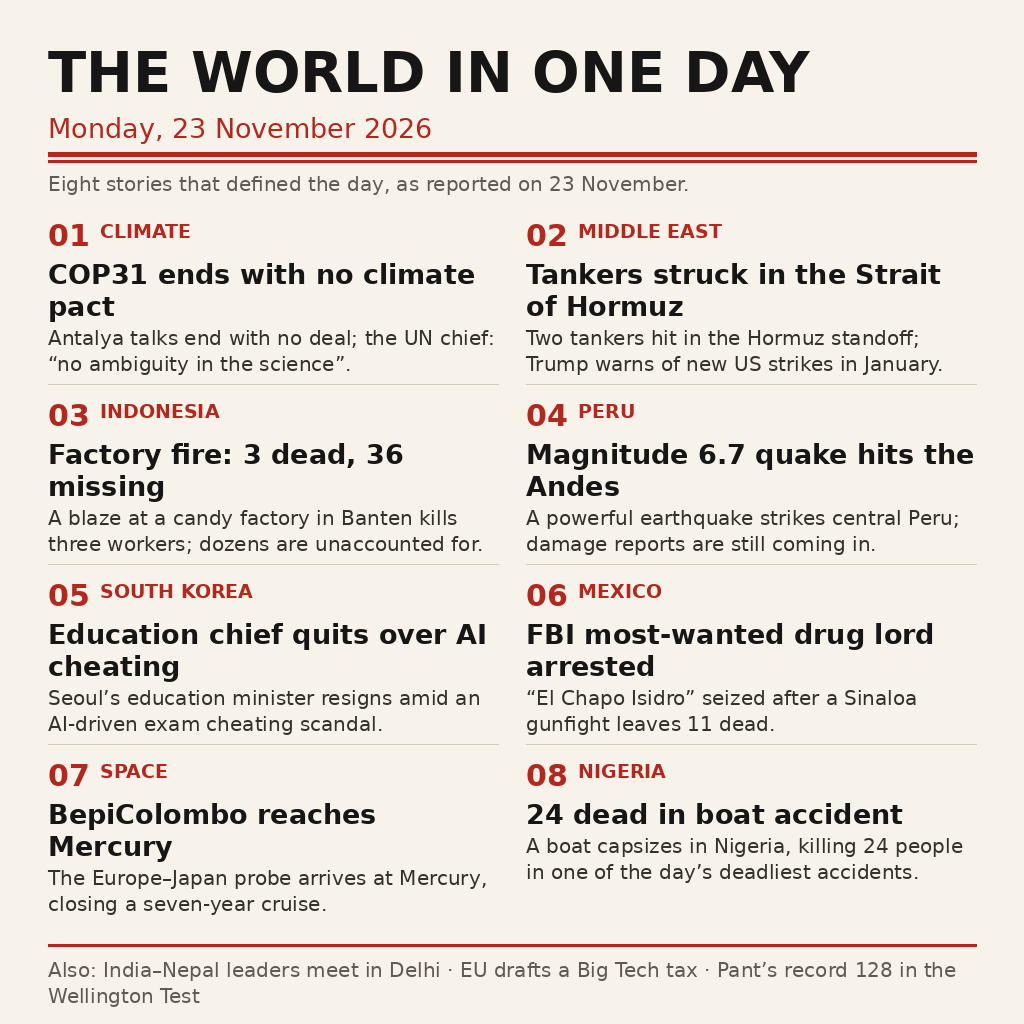
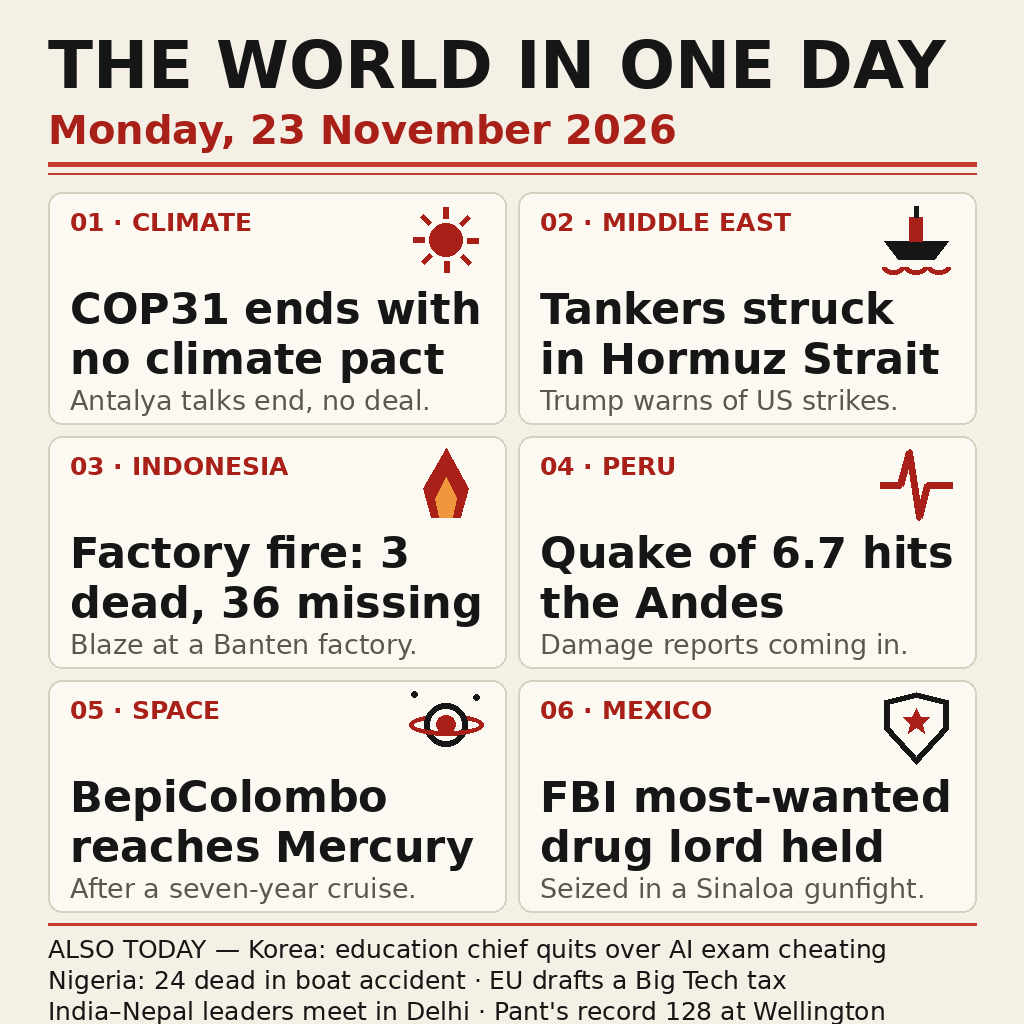
v2: redrawn poster — six story cards with pictograms, larger legible type, footer briefs

Changed region(s): [[0.0312, 0.0312, 0.9688, 1.0]]

diff --git a/draw_poster_v2.py b/draw_poster_v2.py
@@ -1,0 +1,207 @@
+"""Draw version 2 of the 23 November 2026 world-news poster.
+
+Redesign notes (against the judge's published criteria):
+- The day is named even larger, in the masthead, so criterion 1
+  (one day's news, and it names that day) cannot be missed.
+- Six lead stories instead of eight, each with a simple drawn
+  pictogram, a two-line headline at 44px and a one-line deck at
+  27px: at the judge's ~300px reading size the headlines stay
+  legible and each story reads from picture + label (criteria 3, 5).
+- The remaining stories run as one-line briefs in the footer, so
+  breadth (criterion 2) is kept without shrinking the leads.
+- Same stories, same wording as v1: the facts are unchanged,
+  only the presentation is stronger (criterion 4).
+"""
+
+from PIL import Image, ImageDraw, ImageFont
+
+W = H = 1024
+BG = (245, 240, 230)
+INK = (22, 22, 22)
+RED = (168, 32, 24)
+GREY = (92, 86, 78)
+CARD = (252, 249, 243)
+LINE = (196, 60, 46)
+
+SANS = "/usr/share/fonts/truetype/dejavu/DejaVuSans.ttf"
+SANS_B = "/usr/share/fonts/truetype/dejavu/DejaVuSans-Bold.ttf"
+
+
+def font(path, size):
+    return ImageFont.truetype(path, size)
+
+
+F_TITLE = font(SANS_B, 66)
+F_DATE = font(SANS_B, 40)
+F_KICKER = font(SANS_B, 25)
+F_HEAD = font(SANS_B, 43)
+F_DECK = font(SANS, 27)
+F_FOOT = font(SANS, 25)
+F_FOOT_B = font(SANS_B, 25)
+
+
+def wrap(draw, text, fnt, width):
+    words, lines, cur = text.split(), [], ""
+    for w in words:
+        trial = (cur + " " + w).strip()
+        if draw.textlength(trial, font=fnt) <= width:
+            cur = trial
+        else:
+            lines.append(cur)
+            cur = w
+    if cur:
+        lines.append(cur)
+    return lines
+
+
+# --- pictograms, drawn in an (x, y, s) box, s = box side ---------
+
+def icon_sun(d, x, y, s):
+    cx, cy, r = x + s / 2, y + s / 2, s * 0.21
+    d.ellipse([cx - r, cy - r, cx + r, cy + r], fill=RED)
+    import math
+    for k in range(8):
+        a = k * math.pi / 4
+        x1, y1 = cx + (r + 5) * math.cos(a), cy + (r + 5) * math.sin(a)
+        x2, y2 = cx + (r + 16) * math.cos(a), cy + (r + 16) * math.sin(a)
+        d.line([x1, y1, x2, y2], fill=RED, width=6)
+
+
+def icon_ship(d, x, y, s):
+    hull = [(x + 8, y + s * 0.52), (x + s - 8, y + s * 0.52),
+            (x + s - 22, y + s * 0.74), (x + 22, y + s * 0.74)]
+    d.polygon(hull, fill=INK)
+    d.rectangle([x + s * 0.42, y + s * 0.22, x + s * 0.58, y + s * 0.52],
+                fill=RED)
+    d.line([x + s * 0.5, y + s * 0.08, x + s * 0.5, y + s * 0.22],
+           fill=INK, width=5)
+    for i in range(3):
+        yy = y + s * (0.84 + 0.0)
+        xx = x + 6 + i * (s - 12) / 3
+        d.arc([xx, yy - 7, xx + (s - 12) / 3, yy + 7], 0, 180, fill=RED,
+              width=5)
+
+
+def icon_flame(d, x, y, s):
+    cx = x + s / 2
+    d.polygon([(cx, y + 4), (x + s * 0.78, y + s * 0.55),
+               (x + s * 0.68, y + s * 0.92), (x + s * 0.32, y + s * 0.92),
+               (x + s * 0.22, y + s * 0.55)], fill=RED)
+    d.polygon([(cx, y + s * 0.42), (x + s * 0.63, y + s * 0.68),
+               (x + s * 0.58, y + s * 0.92), (x + s * 0.42, y + s * 0.92),
+               (x + s * 0.37, y + s * 0.68)], fill=(240, 150, 60))
+
+
+def icon_quake(d, x, y, s):
+    # a seismograph trace: flat, one sharp spike, flat again
+    mid = y + s * 0.52
+    pts = [(x + 4, mid), (x + s * 0.3, mid), (x + s * 0.42, y + s * 0.1),
+           (x + s * 0.54, y + s * 0.92), (x + s * 0.64, mid),
+           (x + s - 4, mid)]
+    d.line(pts, fill=RED, width=7, joint="curve")
+
+
+def icon_planet(d, x, y, s):
+    cx, cy, r = x + s / 2, y + s * 0.46, s * 0.27
+    # ring behind the planet
+    d.ellipse([x + 3, cy - s * 0.13, x + s - 3, cy + s * 0.13],
+              outline=RED, width=5)
+    d.ellipse([cx - r, cy - r, cx + r, cy + r], fill=CARD)
+    d.ellipse([cx - r, cy - r, cx + r, cy + r], outline=INK, width=6)
+    d.ellipse([cx - r * 0.42, cy - r * 0.42, cx + r * 0.42, cy + r * 0.42],
+              fill=RED)
+    # ring in front, lower arc only
+    d.arc([x + 3, cy - s * 0.13, x + s - 3, cy + s * 0.13], 15, 165,
+          fill=RED, width=5)
+    for dx, dy in [(0.1, 0.08), (0.88, 0.12)]:
+        d.ellipse([x + s * dx - 3, y + s * dy - 3, x + s * dx + 3,
+                   y + s * dy + 3], fill=INK)
+
+
+def icon_badge(d, x, y, s):
+    shield = [(x + s * 0.5, y + 4), (x + s - 8, y + s * 0.16),
+              (x + s - 8, y + s * 0.52), (x + s * 0.5, y + s - 4),
+              (x + 8, y + s * 0.52), (x + 8, y + s * 0.16)]
+    d.polygon(shield, outline=INK, width=6)
+    cx, cy = x + s / 2, y + s * 0.42
+    d.polygon([(cx, cy - 13), (cx + 4, cy - 4), (cx + 13, cy - 4),
+               (cx + 6, cy + 3), (cx + 8, cy + 12), (cx, cy + 6),
+               (cx - 8, cy + 12), (cx - 6, cy + 3), (cx - 13, cy - 4),
+               (cx - 4, cy - 4)], fill=RED)
+
+
+STORIES = [
+    ("01 · CLIMATE", icon_sun,
+     "COP31 ends with no climate pact",
+     "Antalya talks end, no deal."),
+    ("02 · MIDDLE EAST", icon_ship,
+     "Tankers struck in Hormuz Strait",
+     "Trump warns of US strikes."),
+    ("03 · INDONESIA", icon_flame,
+     "Factory fire: 3 dead, 36 missing",
+     "Blaze at a Banten factory."),
+    ("04 · PERU", icon_quake,
+     "Quake of 6.7 hits the Andes",
+     "Damage reports coming in."),
+    ("05 · SPACE", icon_planet,
+     "BepiColombo reaches Mercury",
+     "After a seven-year cruise."),
+    ("06 · MEXICO", icon_badge,
+     "FBI most-wanted drug lord held",
+     "Seized in a Sinaloa gunfight."),
+]
+
+FOOTER = [
+    "ALSO TODAY — Korea: education chief quits over AI exam cheating",
+    "Nigeria: 24 dead in boat accident · EU drafts a Big Tech tax",
+    "India–Nepal leaders meet in Delhi · Pant's record 128 at Wellington",
+]
+
+
+def main():
+    img = Image.new("RGB", (W, H), BG)
+    d = ImageDraw.Draw(img)
+
+    # masthead
+    d.text((48, 26), "THE WORLD IN ONE DAY", font=F_TITLE, fill=INK)
+    d.text((48, 106), "Monday, 23 November 2026", font=F_DATE, fill=RED)
+    d.line([48, 164, W - 48, 164], fill=LINE, width=5)
+    d.line([48, 173, W - 48, 173], fill=LINE, width=2)
+
+    # story cards, 2 columns x 3 rows; the headline block starts
+    # below the kicker/icon row so text never runs under a pictogram
+    top, card_h, gap = 192, 232, 12
+    col_w = (W - 96 - gap) // 2
+    for i, (kicker, icon, head, deck) in enumerate(STORIES):
+        cx = 48 + (i % 2) * (col_w + gap)
+        cy = top + (i // 2) * (card_h + gap)
+        d.rounded_rectangle([cx, cy, cx + col_w, cy + card_h], 14,
+                            fill=CARD, outline=(216, 208, 192), width=2)
+        d.text((cx + 22, cy + 15), kicker, font=F_KICKER, fill=RED)
+        icon(d, cx + col_w - 100, cy + 8, 80)
+        lines = wrap(d, head, F_HEAD, col_w - 44)
+        assert len(lines) <= 2, f"headline wraps past 2 lines: {head!r}"
+        yy = cy + 92
+        for ln in lines:
+            d.text((cx + 22, yy), ln, font=F_HEAD, fill=INK)
+            yy += 50
+        deck_lines = wrap(d, deck, F_DECK, col_w - 44)
+        assert len(deck_lines) == 1, f"deck wraps past 1 line: {deck!r}"
+        d.text((cx + 22, cy + card_h - 40), deck_lines[0], font=F_DECK,
+               fill=GREY)
+
+    # footer briefs
+    fy = top + 3 * card_h + 2 * gap + 12
+    d.line([48, fy, W - 48, fy], fill=LINE, width=3)
+    yy = fy + 10
+    for line in FOOTER:
+        d.text((48, yy), line, font=F_FOOT, fill=INK)
+        yy += 31
+
+    img.save("/tmp/news-v2.png", optimize=True)
+    print("saved /tmp/news-v2.png")
+
+
+if __name__ == "__main__":
+    main()
+

diff --git a/main.py b/main.py
@@ -1,11 +1,14 @@
 """Write the 23 November 2026 world-news image to /output/entry.png
 for make.fun's 'news-image-20261123' bounty.
 
-The image is a front-page poster drawn in this session from the
-morning's wire reports: COP31, the Strait of Hormuz, the Banten
-factory fire, the Peru quake, Seoul's AI-cheating resignation,
-the 'El Chapo Isidro' arrest, BepiColombo at Mercury, and the
-Nigeria boat accident. The program copies the finished image.
+Version 2: the poster was redrawn by draw_poster_v2.py in this
+repository — six lead stories as cards with drawn pictograms,
+larger headlines that stay legible at the judge's reading size,
+and the remaining stories as footer briefs. Same stories as v1:
+COP31, the Strait of Hormuz, the Banten factory fire, the Peru
+quake, Seoul's AI-cheating resignation, the 'El Chapo Isidro'
+arrest, BepiColombo at Mercury, and the Nigeria boat accident.
+The program copies the finished image.
 """
 
 import os
